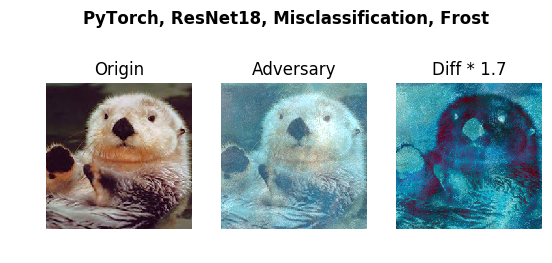
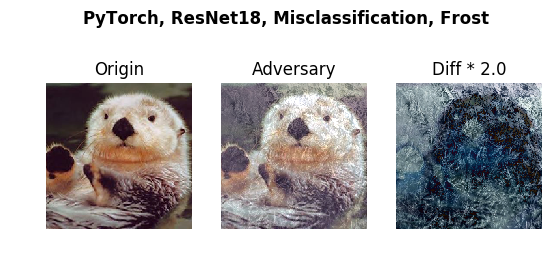
frost

Changed region(s): [[0.7083, 0.2129, 0.9855, 0.8821], [0.4004, 0.3042, 0.6775, 0.8821]]

diff --git a/examples/torch_frost_example.py b/examples/torch_frost_example.py
@@ -35,7 +35,7 @@ label = np.argmax(fmodel.predictions(image))
 
 print(bcolors.BOLD + 'Process start' + bcolors.ENDC)
 # set 'unpack' as false so we can access the detailed info of adversary
-adversary = metric(image, label, scenario=1, verify=True, unpack=False)
+adversary = metric(image, label, scenario=5, verify=True, unpack=False)
 print(bcolors.BOLD + 'Process finished' + bcolors.ENDC)
 
 if adversary.image is None:

diff --git a/perceptron/benchmarks/frost.py b/perceptron/benchmarks/frost.py
@@ -27,7 +27,7 @@ class FrostMetric(Metric):
     """Metric that tests models against frost variations."""
 
     @call_decorator
-    def __call__(self, adv, scenario=1, annotation=None, unpack=True,
+    def __call__(self, adv, scenario=5, annotation=None, unpack=True,
                  abort_early=True, verify=False, epsilons=1000):
         """Change the frost of the image until it is misclassified.
 
